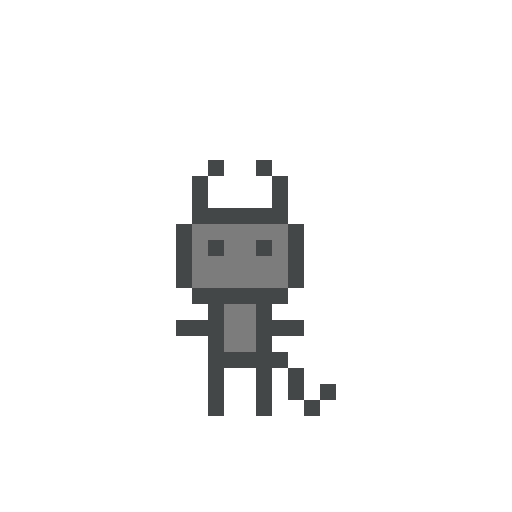
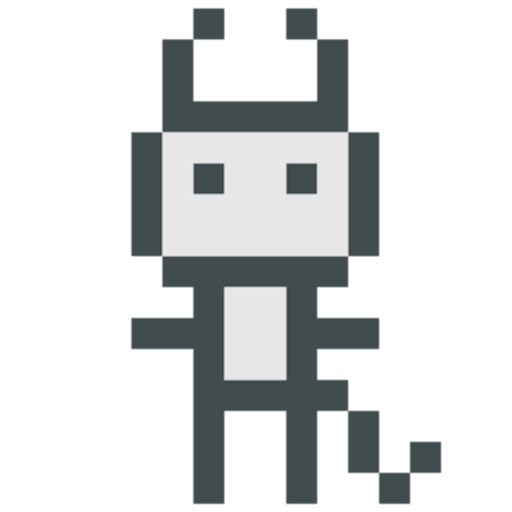
New loading figure

Changed region(s): [[0.25, 0.0, 0.875, 1.0]]

diff --git a/lib/home/home.dart b/lib/home/home.dart
@@ -18,6 +18,7 @@ class HomeView extends ConsumerWidget {
     final buttonPadding = 8.0;
     final buttonFontSize = 24.0;
     final buttonColor = Theme.of(context).colorScheme.onPrimary;
+    final loadingFigureSize = MediaQuery.sizeOf(context).width * 0.55;
 
     return LayoutScaffold(
       useSizedBox: true,
@@ -30,7 +31,13 @@ class HomeView extends ConsumerWidget {
               bottom: 0,
               left: 32,
               right: 0,
-              child: Center(child: Image.asset('assets/loading_figure.png')),
+              child: Center(
+                child: Image.asset(
+                  'assets/loading_figure.png',
+                  width: loadingFigureSize,
+                  height: loadingFigureSize,
+                ),
+              ),
             ),
             Column(
               mainAxisAlignment: MainAxisAlignment.center,
